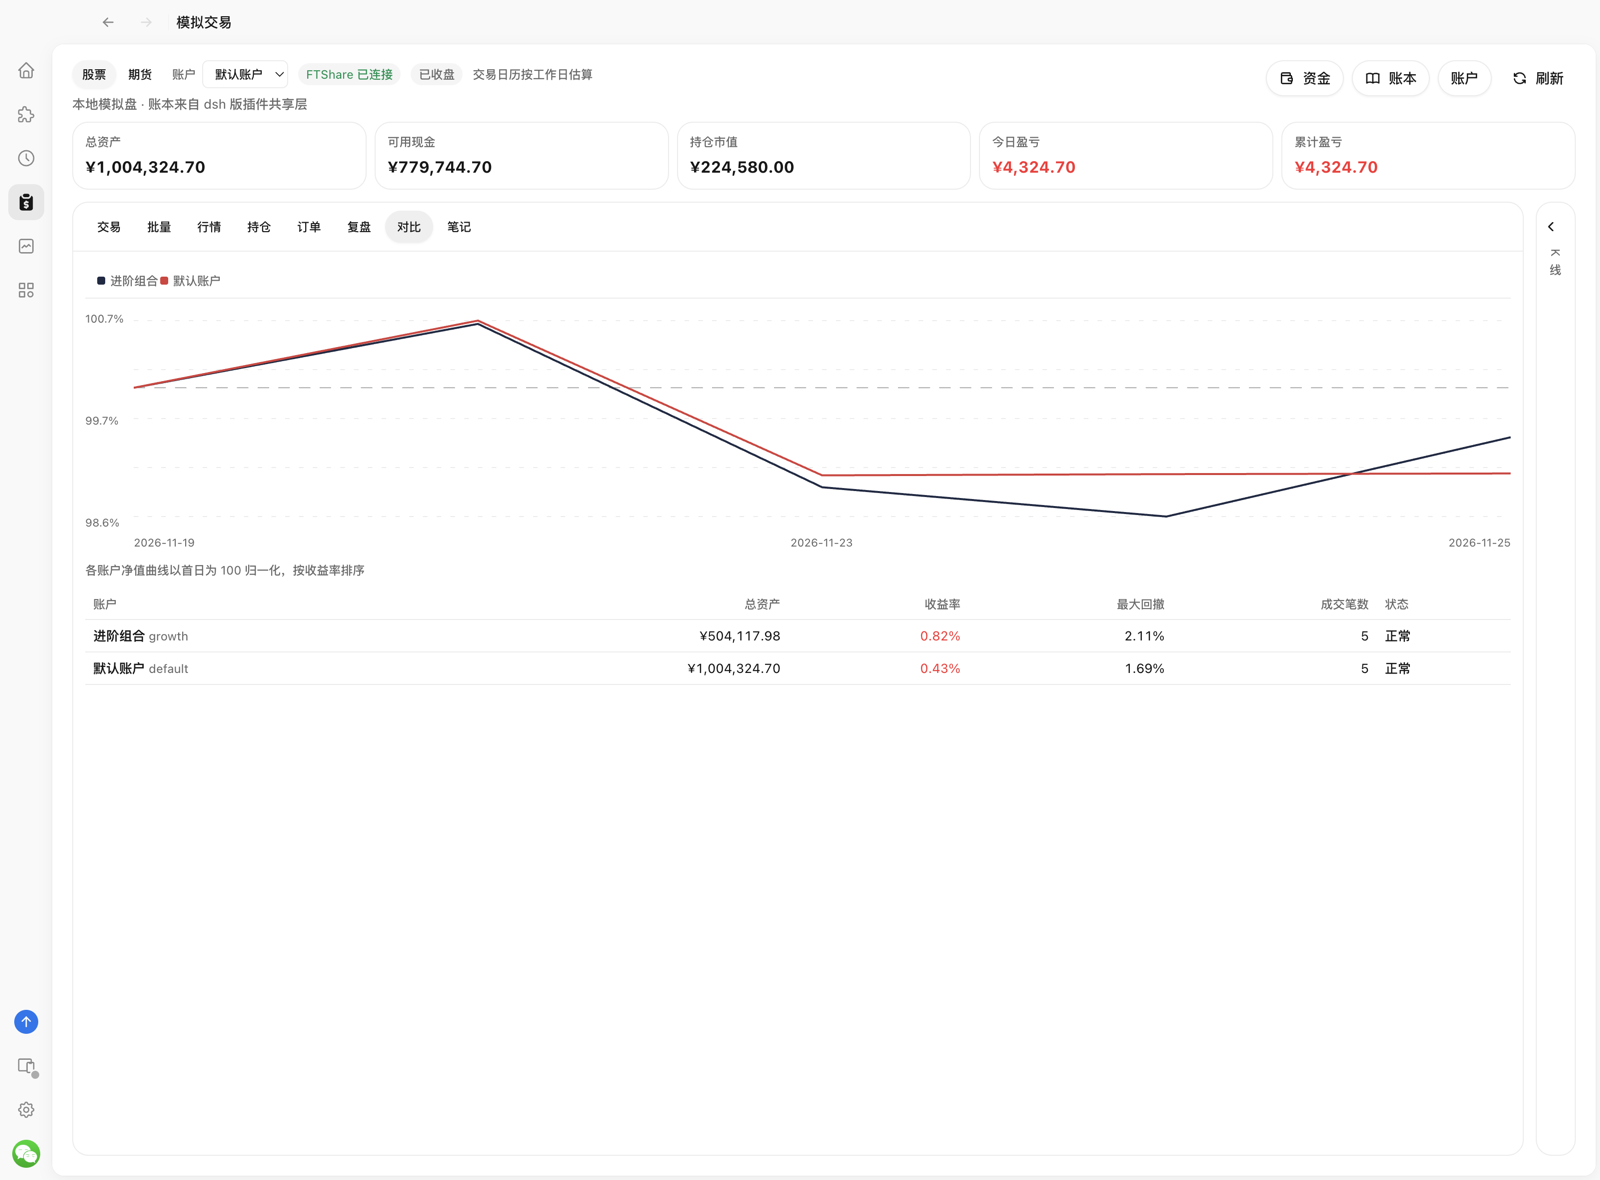
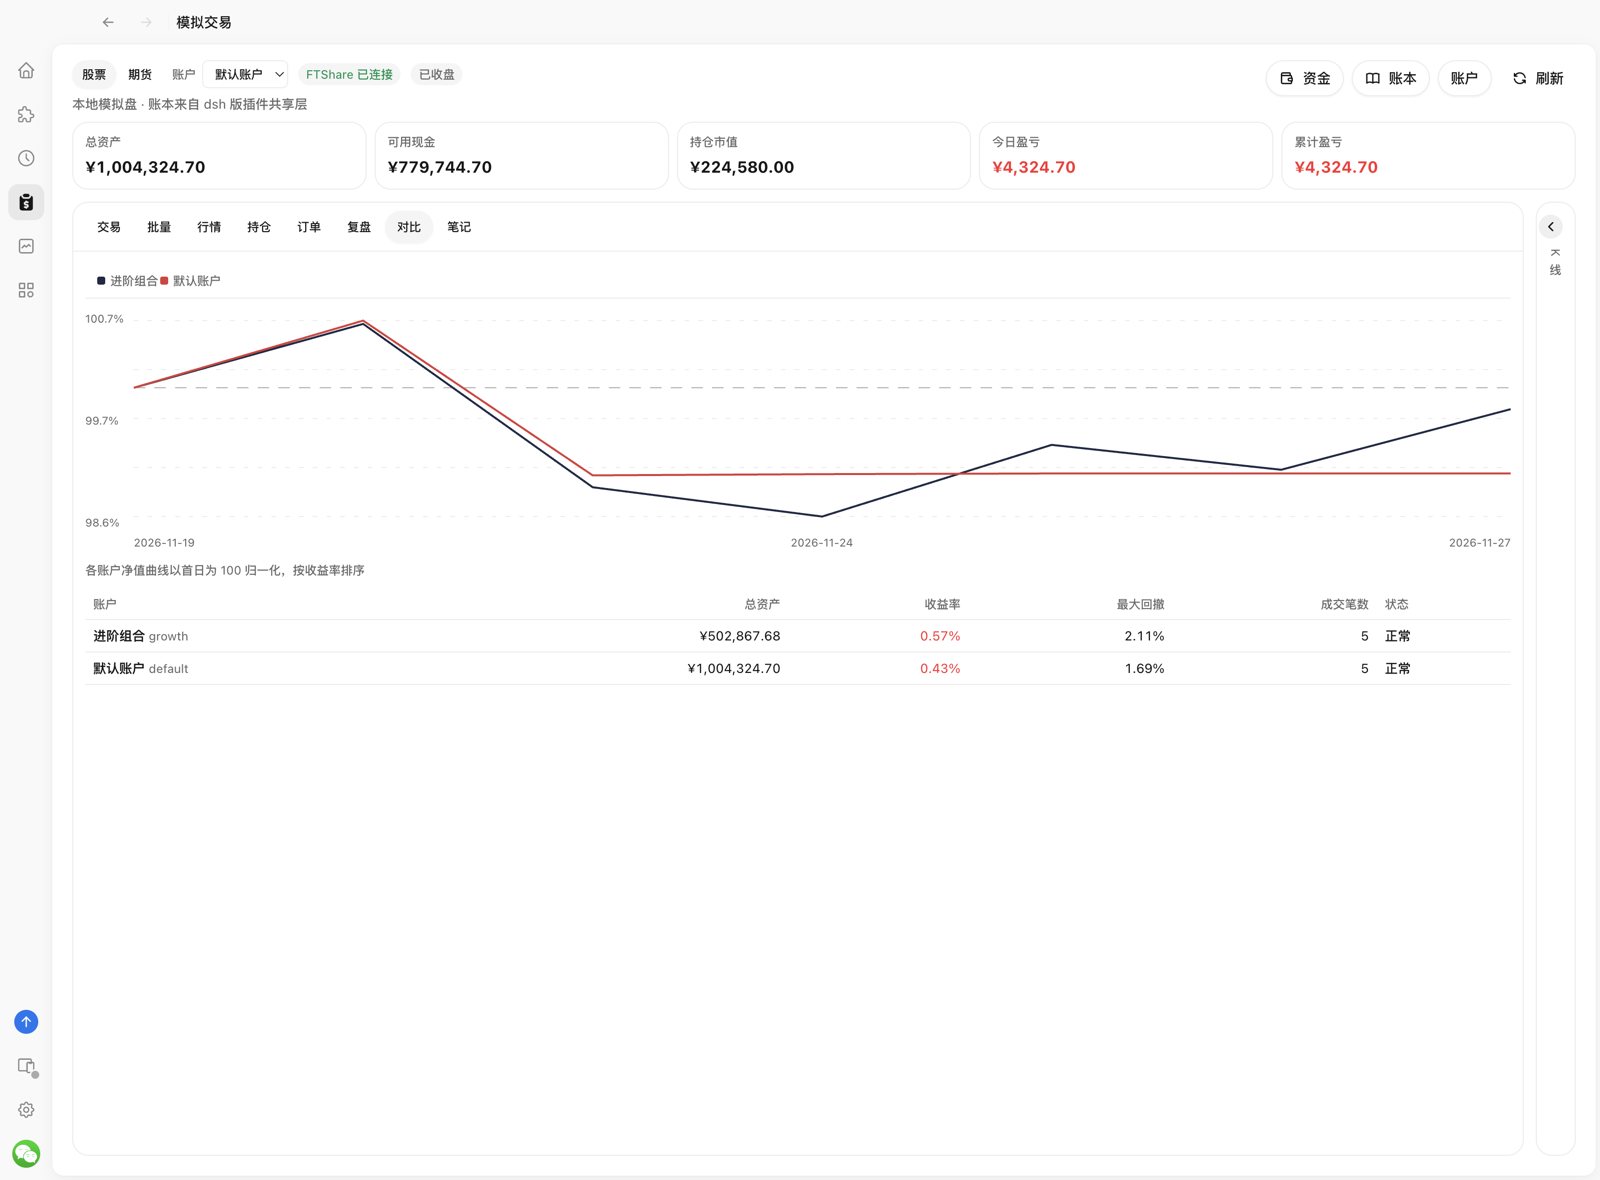
docs: 重拍交易/对比/期货截图（行情恢复后）
- trade.png 最近成交改为整行，左侧不再留白
- compare.png 网格与横轴日期
- futures.png 持仓与风险度

diff --git a/docs/screenshots/README.md b/docs/screenshots/README.md
@@ -19,8 +19,9 @@ pnpm shots
 它做：停走查实例 → 构建并热替换 → 备份账本 → `seed-demo.mjs --apply --no-backup` → 启动 →
 `capture.mjs` 截图 → 还原账本 → 退出。视口 1600×1180、2x，截图后缩到 1600 宽。
 
-行情不可用时 `capture.mjs` 会跳过依赖报价的 `trade.png` 与 `futures-trade.png`，只更新对比与
-期货持仓，并在输出里说明；等交易时段或配额恢复后再跑一次即可。
+行情不可用时 `capture.mjs` 会跳过依赖报价的图，只更新对比与期货持仓，并在输出里说明。
+脚本也会拍一张期货交易页 `futures-trade.png`（需要期货日盘时段，否则带休市提示，不收录）；
+需要时再单独挑图。
 
 README 里用的是仓库绝对地址（`raw.githubusercontent.com` 的 `main` 分支），不是相对路径：npm 包页与
 插件详情页对相对路径的处理不一致，绝对 https 两边都能显示。
